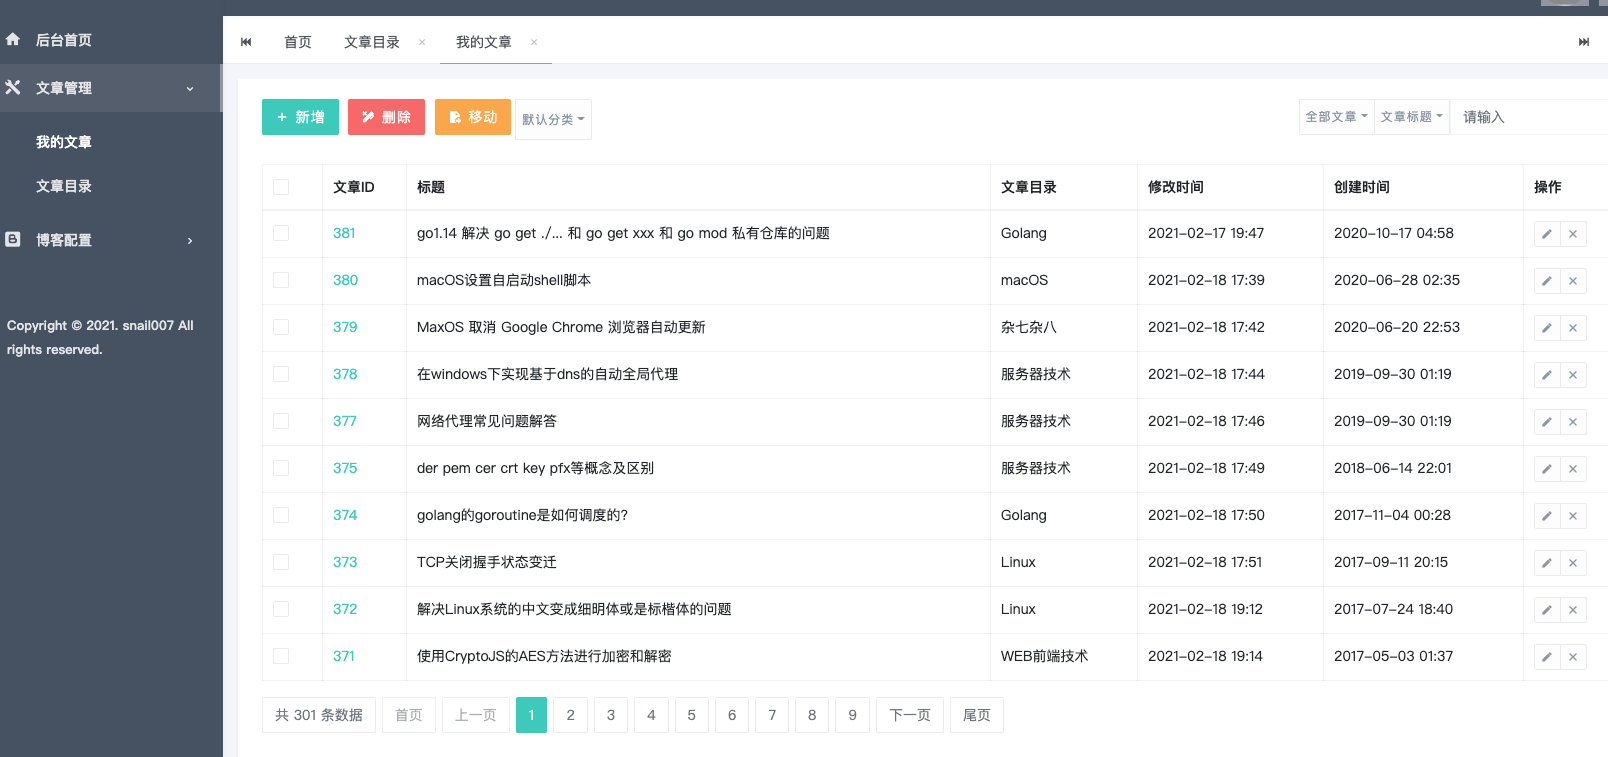
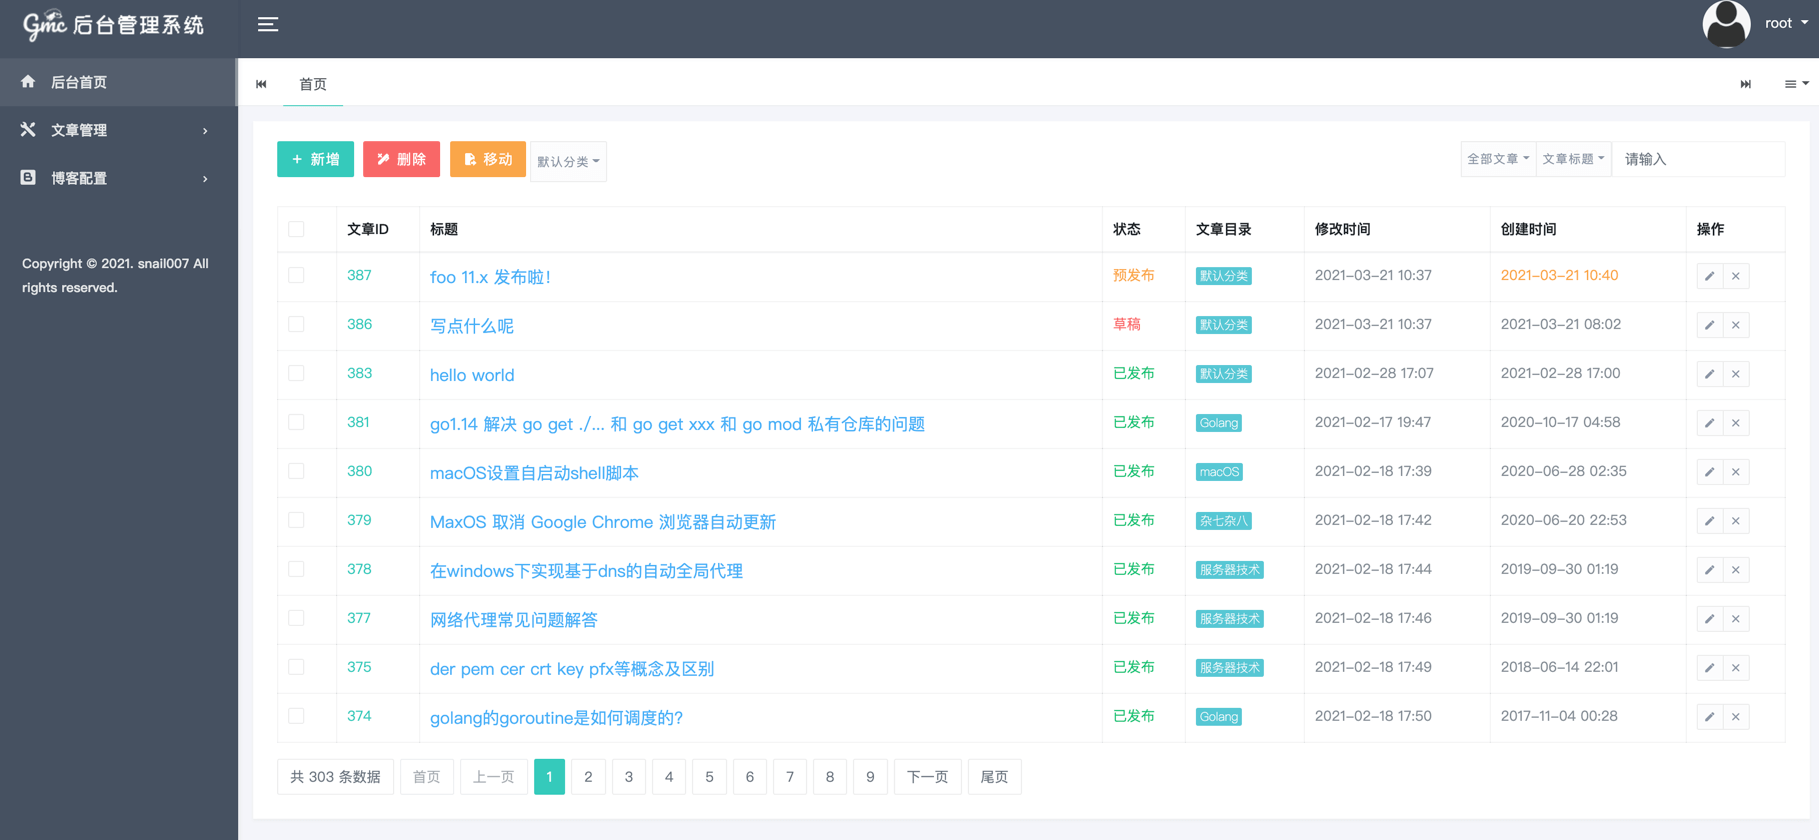
update

diff --git a/views/admin/article/list.html b/views/admin/article/list.html
@@ -77,6 +77,7 @@
                                 </th>
                                 <th>文章ID</th>
                                 <th>标题</th>
+                                <th>状态</th>
                                 <th>文章目录</th>
                                 <th>修改时间</th>
                                 <th>创建时间</th>
@@ -97,10 +98,21 @@
                                     <td>
                                         <a href="{{$adminPath}}{{$controllerPath}}/detail?{{$idName}}={{val $row $idName}}">{{val $row $idName}}</a>
                                     </td>
-                                    <td><a class="text text-info" href="/view/{{val $row $idName}}" target="_blank">{{$row.title}}</a></td>
-                                    <td>{{$row.catalog_name}}</td>
-                                    <td>{{if eq $row.update_time "0"}}-{{else}}{{$row.update_time | date "2006-01-02 15:04"}}{{end}}</td>
-                                    <td {{if eq $row.is_pre_publish "1"}}class="text text-danger"{{end}}>{{$row.create_time | date "2006-01-02 15:04"}}</td>
+                                    <td><a class="text text-info" style="font-size: 1.2em;" href="/view/{{val $row $idName}}" target="_blank">{{$row.title}}</a></td>
+                                    <td>
+                                        {{if eq $row.is_draft "1"}}
+                                        <span class="text text-danger">草稿</span>
+                                        {{else}}
+                                            {{if eq $row.is_pre_publish "1"}}
+                                            <span class="text text-warning">预发布</span>
+                                            {{else}}
+                                            <span class="text text-success">已发布</span>
+                                            {{end}}
+                                        {{end}}
+                                    </td>
+                                    <td><span class="badge badge-cyan">{{$row.catalog_name}}</span></td>
+                                    <td class="text text-gray">{{if eq $row.update_time "0"}}-{{else}}{{$row.update_time | date "2006-01-02 15:04"}}{{end}}</td>
+                                    <td {{if eq $row.is_pre_publish "1"}}class="text text-warning"{{else}}class="text text-gray"{{end}}>{{$row.create_time | date "2006-01-02 15:04"}}</td>
                                     <td>
                                         <div class="btn-group">
                                             <a class="btn btn-xs btn-default"

diff --git a/views/admin/article/form.html b/views/admin/article/form.html
@@ -5,9 +5,10 @@
               action="{{.admPath}}{{$controllerPath}}/{{if .data}}edit{{else}}create{{end}}" method="post"
               enctype="application/x-www-form-urlencoded">
             {{if .data }}
-                {{$name:="article_id"}}
-                <input type="hidden" name="{{$name}}" id="{{$name}}" value="{{val .data $name}}">
+            {{$name:="article_id"}}
+            <input type="hidden" name="{{$name}}" id="{{$name}}" value="{{val .data $name}}">
             {{end}}
+            <input type="hidden" name="is_draft" id="is_draft" value='0'>
             <div class="form-group">
                 {{$name:="catalog_id"}}
                 <label for="{{$name}}">文章目录</label>
@@ -75,6 +76,13 @@
                           aria-hidden="true"></span>
                     {{if .data }}保存{{else}}添加{{end}}
                 </button>
+                {{if or (not .data) (eq (val .data "is_draft") "1")}}
+                <button type="submit" class="btn btn-info mb-2" onclick="$('#is_draft').val(1)">
+                    <span class="spinner-grow spinner-grow-sm" role="status" style="display: none;"
+                          aria-hidden="true"></span>
+                    保存为草稿
+                </button>
+                {{end}}
                 <a href="javascript:history.back()" class="btn btn-default mb-2">返回</a>
             </div>
         </form>

diff --git a/views/admin/article/detail.html b/views/admin/article/detail.html
@@ -24,6 +24,20 @@
                             <td>{{.data.catalog_name}}</td>
                         </tr>
                         <tr>
+                            <td>状态</td>
+                            <td>
+                                {{if eq .data.is_draft "1"}}
+                                <span class="text text-danger">草稿</span>
+                                {{else}}
+                                {{if eq .data.is_pre_publish "1"}}
+                                <span class="text text-warning">预发布</span>
+                                {{else}}
+                                <span class="text text-success">已发布</span>
+                                {{end}}
+                                {{end}}
+                            </td>
+                        </tr>
+                        <tr>
                             <td>修改时间</td>
                             <td>{{if eq .data.update_time "0"}}-{{else}}{{.data.update_time | date "2006-01-02 15:04"}}{{end}}</td>
                         </tr>

diff --git a/controller/admin/article.go b/controller/admin/article.go
@@ -93,6 +93,11 @@ func (this *Article) Detail() {
 	if err != nil {
 		this.Stop(err)
 	}
+	isPrePublish := "0"
+	if time.Now().Unix() < gcast.ToInt64(row["create_time"]) {
+		isPrePublish = "1"
+	}
+	row["is_pre_publish"] = isPrePublish
 	row["catalog_name"] = catalog["name"]
 	this.View.Set("data", row)
 	this.View.Layout("admin/form").Render("admin/article/detail")
@@ -107,6 +112,8 @@ func (this *Article) Create() {
 		}
 		v := data.Create()
 		v.FilterRule("catalog_id", "int")
+
+		v.StringRule("is_draft", "required|enum:0,1")
 		v.StringRule("content", "required")
 		v.StringRule("title", "required")
 		v.StringRule("summary", "required")
@@ -119,6 +126,7 @@ func (this *Article) Create() {
 		dataInsert["summary"], _ = data.Get("summary")
 		dataInsert["content"], _ = data.Get("content")
 		dataInsert["catalog_id"], _ = data.Get("catalog_id")
+		dataInsert["is_draft"], _ = data.Get("is_draft")
 		dataInsert["poster_url"], _ = data.Get("poster_url")
 		dataInsert["update_time"] = 0
 		t, err := time.ParseInLocation("2006-01-02 15:04:05", this.Ctx.POST("create_time"), time.Local)
@@ -137,10 +145,12 @@ func (this *Article) Create() {
 		}
 		global.Context.Cache().Clear()
 		// insert index data
-		doc := fmt.Sprintf("%s\n%s\n%s", dataInsert["title"], dataInsert["summary"], dataInsert["content"])
-		err = global.Context.Indexer().Index(fmt.Sprintf("%d", id), doc)
-		if err != nil {
-			this.Logger.Warnf("insert index data fail, %d , error: %s", id, err)
+		if global.Context.Indexer() != nil {
+			doc := fmt.Sprintf("%s\n%s\n%s", dataInsert["title"], dataInsert["summary"], dataInsert["content"])
+			err = global.Context.Indexer().Index(fmt.Sprintf("%d", id), doc)
+			if err != nil {
+				this.Logger.Warnf("insert index data fail, %d , error: %s", id, err)
+			}
 		}
 		this._JSONSuccess("", "", this.Ctx.POST("referer"))
 	} else {
@@ -179,6 +189,7 @@ func (this *Article) Edit() {
 		v.FilterRule("article_id", "int")
 		v.FilterRule("catalog_id", "int")
 
+		v.StringRule("is_draft", "required|enum:0,1")
 		v.StringRule("article_id", "required|min:1")
 		v.StringRule("title", "required")
 		v.StringRule("summary", "required")
@@ -187,15 +198,23 @@ func (this *Article) Edit() {
 			this._JSONFail(v.Errors.One())
 		}
 
+		nowUnix := time.Now().Unix()
 		dataUpdate := gmap.M{}
 		dataUpdate["title"], _ = data.Get("title")
 		dataUpdate["summary"], _ = data.Get("summary")
 		dataUpdate["content"], _ = data.Get("content")
 		dataUpdate["catalog_id"], _ = data.Get("catalog_id")
 		dataUpdate["poster_url"], _ = data.Get("poster_url")
-		dataUpdate["update_time"] = time.Now().Unix()
+		dataUpdate["update_time"] = nowUnix
 		if dataUpdate["poster_url"] == "" {
 			dataUpdate["poster_url"] = global.RandImgIdx()
+		}
+		if article["is_draft"] == "1" {
+			dataUpdate["is_draft"], _ = data.Get("is_draft")
+			if dataUpdate["is_draft"] == "0" {
+				dataUpdate["create_time"] = nowUnix
+				dataUpdate["update_time"] = nowUnix
+			}
 		}
 		createTimeDB := gcast.ToInt64(article["create_time"])
 		createTime := this.Ctx.POST("create_time")
@@ -215,17 +234,18 @@ func (this *Article) Edit() {
 		}
 		global.Context.Cache().Clear()
 
-		// delete & insert index data
-		err = global.Context.Indexer().Delete(id)
-		if err != nil {
-			this.Logger.Warnf("delete index data fail, %d , error: %s", id, err)
+		if global.Context.Indexer() != nil {
+			// delete & insert index data
+			err = global.Context.Indexer().Delete(id)
+			if err != nil {
+				this.Logger.Warnf("delete index data fail, %d , error: %s", id, err)
+			}
+			doc := fmt.Sprintf("%s\n%s\n%s", dataUpdate["title"], dataUpdate["summary"], dataUpdate["content"])
+			err = global.Context.Indexer().Index(id, doc)
+			if err != nil {
+				this.Logger.Warnf("insert index data fail, %d , error: %s", id, err)
+			}
 		}
-		doc := fmt.Sprintf("%s\n%s\n%s", dataUpdate["title"], dataUpdate["summary"], dataUpdate["content"])
-		err = global.Context.Indexer().Index(id, doc)
-		if err != nil {
-			this.Logger.Warnf("insert index data fail, %d , error: %s", id, err)
-		}
-
 		this._JSONSuccess("", "", this.Ctx.POST("referer"))
 	} else {
 		catalogTable := gmc.DB.Table("catalog")
@@ -259,11 +279,13 @@ func (this *Article) Delete() {
 		this._JSONFail(err.Error())
 	})
 	global.Context.Cache().Clear()
-	for _, id := range ids {
-		//delete index data
-		err = global.Context.Indexer().Delete(id)
-		if err != nil {
-			this.Logger.Warnf("delete index data fail, %d , error: %s", id, err)
+	if global.Context.Indexer() != nil {
+		for _, id := range ids {
+			//delete index data
+			err = global.Context.Indexer().Delete(id)
+			if err != nil {
+				this.Logger.Warnf("delete index data fail, %d , error: %s", id, err)
+			}
 		}
 	}
 	this._JSONSuccess("", nil, this.Ctx.Header("Referer"))

diff --git a/controller/blog/blog.go b/controller/blog/blog.go
@@ -86,6 +86,7 @@ func (this *Blog) List() {
 	id := this.Param.ByName("id")
 	where := gmap.M{
 		"create_time <=": time.Now().Unix(),
+		"is_draft":       0,
 	}
 	db := gmc.DB.DB()
 	catalog := gmap.Mss{}
@@ -150,7 +151,7 @@ func (this *Blog) Views() {
 	id := this.Param.ByName("id")
 	db := gmc.DB.DB()
 	rs, err := db.Query(this.cache("article-" + id).From("article").Where(
-		gmap.M{"article_id": id, "create_time <=": time.Now().Unix()},
+		gmap.M{"article_id": id, "create_time <=": time.Now().Unix(), "is_draft": 0},
 	))
 	if err != nil {
 		this.Stop(err)
@@ -204,7 +205,7 @@ func (this *Blog) Timeline() {
 	db := gmc.DB.DB()
 	rs, err := db.Query(this.cache("timeline").
 		From("article").
-		Where(gmap.M{"create_time <=": time.Now().Unix()}).
+		Where(gmap.M{"create_time <=": time.Now().Unix(),"is_draft":0}).
 		OrderBy("create_time", "desc"))
 	if err != nil {
 		this.Stop(err)
@@ -225,7 +226,7 @@ func (this *Blog) Search() {
 	db := gmc.DB.DB()
 	rs, err := db.Query(this.cache("search").
 		From("article").
-		Where(gmap.M{"create_time <=": time.Now().Unix()}).
+		Where(gmap.M{"create_time <=": time.Now().Unix(),"is_draft":0}).
 		OrderBy("create_time", "desc"))
 	if err != nil {
 		this.Stop(err)
@@ -263,7 +264,7 @@ func (this *Blog) Search() {
 				db := gmc.DB.DB()
 				rs, err := db.Query(this.cache("search").
 					From("article").
-					Where(gmap.M{"create_time <=": time.Now().Unix()}).
+					Where(gmap.M{"create_time <=": time.Now().Unix(),"is_draft":0}).
 					OrderBy("create_time", "desc"))
 				if err != nil {
 					this.Stop(err)
@@ -295,7 +296,7 @@ func (this *Blog) Catalogs() {
 	rs, err = db.Query(this.cache("catalogsSummary").
 		Select("count(*) as total,catalog_id").
 		From("article").
-		Where(gmap.M{"create_time <=": time.Now().Unix()}).
+		Where(gmap.M{"create_time <=": time.Now().Unix(),"is_draft":0}).
 		GroupBy("catalog_id"))
 	if err != nil {
 		this.Stop(err)

diff --git a/initialize/initialize.go b/initialize/initialize.go
@@ -72,9 +72,16 @@ func Initialize(s *ghttpserver.HTTPServer) (err error) {
 	ctx.SetDB(gdb.DB())
 	gdb.DBSQLite3().Config.Cache = &DBCache{}
 	// auto init databases
-	err = checkTable(ctx.DB())
+	isNewDB, err := checkTable(ctx.DB())
 	if err != nil {
 		return
+	}
+	// auto update db tables, if needed.
+	if !isNewDB {
+		err = autoUpdateTable(ctx.DB())
+		if err != nil {
+			return
+		}
 	}
 
 	// init logger
@@ -122,9 +129,11 @@ func (s *DBCache) Get(key string) (data []byte, err error) {
 	return
 }
 
-func checkTable(db gcore.Database) (err error) {
+func checkTable(db gcore.Database) (isNewDB bool, err error) {
+	isNewDB = true
 	_, e := db.Query(db.AR().Raw("select * from article"))
 	if e == nil {
+		isNewDB = false
 		return
 	}
 	now := time.Now().Unix()
@@ -135,6 +144,7 @@ create table article(
   summary text,
   poster_url text,
   content text,
+  is_draft integer default 0,
   catalog_id int,
   create_time int,
   update_time int
@@ -172,6 +182,31 @@ insert into user (user_id, username, nickname, password, is_delete, update_time,
 			_, err = db.Exec(db.AR().Raw(v))
 			if err != nil {
 				return
+			}
+		}
+	}
+	return
+}
+
+func autoUpdateTable(db gcore.Database) (err error) {
+	// checking sql, checking result except not nil, update sql.
+	sqlData := [][]interface{}{
+		{"select is_draft from article limit 0,1", true, `alter table article add column is_draft integer default 0`},
+	}
+	for _, v := range sqlData {
+		checkSQL := v[0].(string)
+		checkSQLExceptNotNil := v[1].(bool)
+		updateSQL := v[2].(string)
+		// add article.is_draft
+		_, e := db.Query(db.AR().Raw(checkSQL))
+		if (checkSQLExceptNotNil && e != nil) || (!checkSQLExceptNotNil && e == nil) {
+			for _, sql := range strings.Split(strings.Trim(updateSQL, ";\n\t "), ";") {
+				if sql != "" {
+					_, err = db.Exec(db.AR().Raw(sql))
+					if err != nil {
+						return
+					}
+				}
 			}
 		}
 	}
